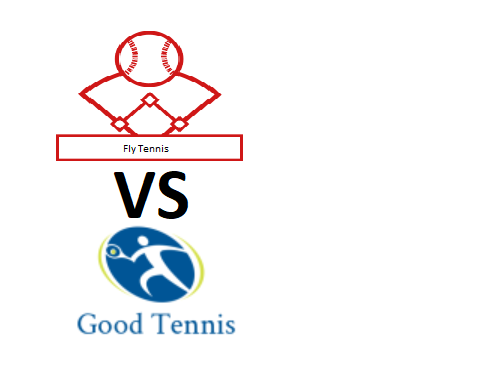
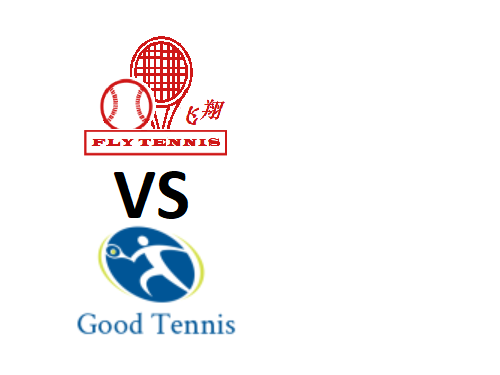
201811302054 real real finial commit

Changed region(s): [[0.09, 0.0587, 0.51, 0.44]]

diff --git a/html/main.html b/html/main.html
@@ -17,8 +17,8 @@
 <body>
 	<div id="top_top_block" class="block flex_center_box">
 		<!--在这里写块内元素-->
-		<!-- <img src="../images/logo/logo_me.jpg" id="top_top_img"> -->
-		<p  id="top_top_title">成都飞翔网球俱乐部</p>
+		<img src="../images/logo/logo_me.jpg" id="top_top_img">
+		<p  id="top_top_title">飞翔网球俱乐部</p>
 	</div>
 	<div id="top_block" class="block flex_center_box">
 		<div class="slip_outline">
@@ -264,81 +264,86 @@
 			        </a>
 			    </div>
 			    <div class="block_title">
-				<h1>聚会活动</h1>
-				</div>
-				<div class="card">
-			        <a onclick="takeText(this)">
-			            <div class="card_header">
-			                <img src="../images/news/news7.png" class="card_img"></img>
-			            </div>
-			            <div class="card_body">
-			                <div class="card_title">
-			                    <h1>城民关怀“放心水”项目招募城民志愿者</h1>
-			                </div>
-			                <div class="card_content">
-			                    <p>&emsp;&emsp;2018-11-24</p>
-			                </div>
-			                <div class="card_bottom">
-			                    <p></p>
-			                </div>
-			            </div>
-			        </a>
-			    </div>
-			    <div class="card">
-			        <a onclick="takeText(this)">
-			            <div class="card_header">
-			                <img src="../images/news/news10.jpg" class="card_img"></img>
-			            </div>
-			            <div class="card_body">
-			                <div class="card_title">
-			                    <h1>业余队队员与球迷们的线下欢聚盛宴！</h1>
-			                </div>
-			                <div class="card_content">
-			                    <p>&emsp;&emsp;2018-11-23</p>
-			                </div>
-			                <div class="card_bottom">
-			                    <p></p>
-			                </div>
-			            </div>
-			        </a>
-			    </div>
-			    <div class="card">
-			        <a onclick="takeText(this)">
-			            <div class="card_header">
-			                <img src="../images/news/news11.jpg" class="card_img"></img>
-			            </div>
-			            <div class="card_body">
-			                <div class="card_title">
-			                    <h1>球队训练后业余队内轻松聚餐</h1>
-			                </div>
-			                <div class="card_content">
-			                    <p>&emsp;&emsp;2018-11-22</p>
-			                </div>
-			                <div class="card_bottom">
-			                    <p></p>
-			                </div>
-			            </div>
-			        </a>
-			    </div>
-			    <div class="card">
-			        <a onclick="takeText(this)">
-			            <div class="card_header">
-			                <img src="../images/news/news12.jpg" class="card_img"></img>
-			            </div>
-			            <div class="card_body">
-			                <div class="card_title">
-			                    <h1>我们是冠军！俱乐部全体运动员聚会</h1>
-			                </div>
-			                <div class="card_content">
-			                    <p>&emsp;&emsp;2018-11-21</p>
-			                </div>
-			                <div class="card_bottom">
-			                    <p></p>
-			                </div>
-			            </div>
-			        </a>
-			    </div>
 			</div>
+		</div>
+	</div>
+	<div id="news_block" class="block flex_center_box" style="margin-top: -10px">
+		<div id="news_block_background" class="flex_center_box" style="padding-bottom: 25px">
+			<div class="block_title">
+				<h1>聚会活动</h1>
+			</div>
+			<div class="card">
+		        <a onclick="takeText(this)">
+		            <div class="card_header">
+		                <img src="../images/news/news7.png" class="card_img"></img>
+		            </div>
+		            <div class="card_body">
+		                <div class="card_title">
+		                    <h1>城民关怀“放心水”项目招募城民志愿者</h1>
+		                </div>
+		                <div class="card_content">
+		                    <p>&emsp;&emsp;2018-11-24</p>
+		                </div>
+		                <div class="card_bottom">
+		                    <p></p>
+		                </div>
+		            </div>
+		        </a>
+		    </div>
+		    <div class="card">
+		        <a onclick="takeText(this)">
+		            <div class="card_header">
+		                <img src="../images/news/news10.jpg" class="card_img"></img>
+		            </div>
+		            <div class="card_body">
+		                <div class="card_title">
+		                    <h1>业余队队员与球迷们的线下欢聚盛宴！</h1>
+		                </div>
+		                <div class="card_content">
+		                    <p>&emsp;&emsp;2018-11-23</p>
+		                </div>
+		                <div class="card_bottom">
+		                    <p></p>
+		                </div>
+		            </div>
+		        </a>
+		    </div>
+		    <div class="card">
+		        <a onclick="takeText(this)">
+		            <div class="card_header">
+		                <img src="../images/news/news11.jpg" class="card_img"></img>
+		            </div>
+		            <div class="card_body">
+		                <div class="card_title">
+		                    <h1>球队训练后业余队内轻松聚餐</h1>
+		                </div>
+		                <div class="card_content">
+		                    <p>&emsp;&emsp;2018-11-22</p>
+		                </div>
+		                <div class="card_bottom">
+		                    <p></p>
+		                </div>
+		            </div>
+		        </a>
+		    </div>
+		    <div class="card">
+		        <a onclick="takeText(this)">
+		            <div class="card_header">
+		                <img src="../images/news/news12.jpg" class="card_img"></img>
+		            </div>
+		            <div class="card_body">
+		                <div class="card_title">
+		                    <h1>我们是冠军！俱乐部全体运动员聚会</h1>
+		                </div>
+		                <div class="card_content">
+		                    <p>&emsp;&emsp;2018-11-21</p>
+		                </div>
+		                <div class="card_bottom">
+		                    <p></p>
+		                </div>
+		            </div>
+		        </a>
+		    </div>
 		</div>
 	</div>
 	<div id="choose_block" class="block flex_center_box">
@@ -347,7 +352,7 @@
 				<h1>队伍入口</h1>
 			</div>
 			<div class="flex_center_box change_button back_change_button full_box" id="professional_team">
-				<a href="professional_team.html" class="change_button font_change_button">专业队</a>
+				<a href="professional_team.html" class="change_button font_change_button">竞技队</a>
 			</div>
 			<div class="flex_center_box change_button back_change_button full_box" id="amateur_team">
 				<a href="amateur_team.html" class="change_button font_change_button">业余队</a>
@@ -358,10 +363,10 @@
 		<div class="slip_outline">
 			<div id="mid_block_content">
 				<div class="big_title card_title">
-					<h1>我们是冠军！</h1>  <!--别问我为啥写这个名字，我只记得那天晚上我看了一晚上都没看完那八集orz图文无关-->
+					<h1>我们是冠军！</h1>
 				</div>
 				<div class="flex_center_box big_content">
-					<img src="../images/logo/logo00.png">
+					<img src="../images/logo/logo0.png">
 					<div class="flex_center_box_v">
 						<p>7 - 5</p>
 						<div class="borad_change"></div>

diff --git a/html/about.html b/html/about.html
@@ -48,7 +48,20 @@
 		</div>
 	</div>
 	<div id="goods_block" class="block flex_center_box">
+		<div id="goods_block_background" class="flex_center_box" style="margin-bottom: 10px">
+			<div class="block_title extra_add_padding">
+				<h1>简 介 </h1>
+			</div>
+			<div id="content">
+				<p>lllllllllllllllllllllllllllllllllllllllllllllllllllllll</p>
+			</div>
+		</div>
+	</div>
+	<div id="goods_block" class="block flex_center_box">
 		<div id="goods_block_background" class="flex_center_box">
+			<div class="block_title extra_add_padding">
+				<h1>历 史 </h1>
+			</div>
 			<div id="timeLine">
 				<ul id="yearList">
 					<li class="year-active">2013<i class="year-dot"></i></li>

diff --git a/css/about.css b/css/about.css
@@ -1,17 +1,19 @@
+*{
+    font-family: "PingFang SC", "Hiragino Sans GB", "Heiti SC", "Microsoft YaHei", "WenQuanYi Micro Hei";
+}
+#content p {
+
+}
 #goods_block {
-	height: 71vh;
 	background-color: white; 
 }
 #goods_block_background {
-	height: 85%;
-	margin: 10px 7.5%;
+	width: 85%;
+	margin: 20px 7.5%;
 	padding-bottom: 2vh;
 	padding-left: 7.5%;
 	padding-right: 7.5%;
 	background-color: #ebedf0;
-}
-*{
-    font-family: "PingFang SC", "Hiragino Sans GB", "Heiti SC", "Microsoft YaHei", "WenQuanYi Micro Hei";
 }
 #timeLine{
     width: 100%;

diff --git a/css/store.css b/css/store.css
@@ -1,12 +1,13 @@
 #goods_block {
-	background-color: white; 
+	background-color: white;
 }
 #goods_block_background {
-	margin: 10px 7.5%;
+	margin: 20px 7.5%;
 	padding-bottom: 2vh;
 	padding-left: 7.5%;
 	padding-right: 7.5%;
 	background-color: #ebedf0;
+	min-height: 85vh; 
 }
 .news_block_small {
 	margin-bottom: 2vh;

diff --git a/css/point.css b/css/point.css
@@ -7,6 +7,7 @@
 	padding-left: 7.5%;
 	padding-right: 7.5%;
 	background-color: #ebedf0;
+	min-height: 85vh;
 }
 img {
 	width: 60%;

diff --git a/css/main.css b/css/main.css
@@ -10,6 +10,7 @@
 	position: absolute;
 	left: 0;
 	top: 0;
+	max-width: 15%;
 }
 #top_top_title {
 	color: white;
